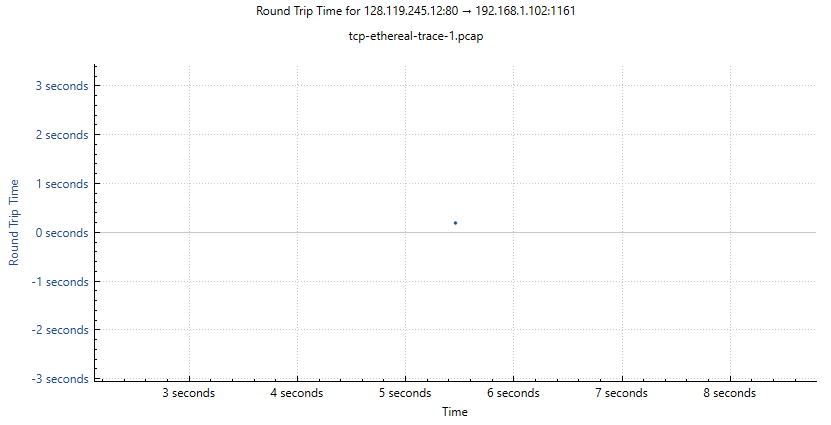
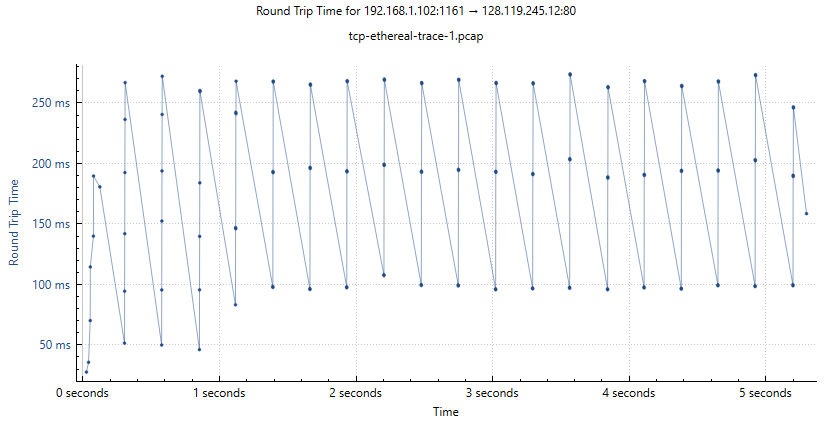
add laporan dan gambar 1

diff --git a/week6/NurAisyah_M6.md b/week6/NurAisyah_M6.md
@@ -51,7 +51,7 @@ Kelas: IF-04-02
 ![Gambar 9](../assets/image/46.png)
 3. Nomor urut (sequence number) dari segmen TCP yang berisi perintah HTTP POST adalah 164041. Hal ini terlihat pada paket dengan informasi “POST /ethereal-labs/lab3-1-reply.htm” di Wireshark. Segmen tersebut dapat diidentifikasi melalui field DATA pada bagian bawah yang menampilkan perintah POST. Segmen ini merupakan bagian awal dari pengiriman data dari klien ke server setelah koneksi TCP terbentuk, sehingga sequence number tersebut digunakan sebagai acuan dalam proses transfer data TCP.
 ![Gambar 10](../assets/image/47.png)
-4. Segmen pertama yang digunakan sebagai acuan adalah segmen yang berisi HTTP POST pada waktu 5.297341 dengan sequence number 164041. Lima segmen berikutnya memiliki sequence number yang tetap yaitu 1 dengan waktu pengiriman berturut-turut pada 5.389471, 5.447887, 5.455830, 5.461175, dan 5.651141. Acknowledgement untuk segmen-segmen tersebut diterima dari server dengan waktu yang berdekatan, sehingga selisih antara waktu pengiriman dan penerimaan ACK relatif kecil. Berdasarkan selisih waktu tersebut, nilai RTT untuk keenam segmen tergolong rendah, menunjukkan komunikasi jaringan yang stabil. Hal ini juga didukung oleh grafik Round Trip Time yang hanya menampilkan satu titik dengan nilai RTT yang kecil, yang menunjukkan bahwa jumlah pengukuran RTT terbatas namun tetap mencerminkan delay yang rendah. Nilai EstimatedRTT juga cenderung konstan karena tidak terdapat variasi RTT yang signifikan selama pengiriman segmen TCP tersebut.
+4. Segmen pertama adalah segmen HTTP POST pada waktu 5.297341 dengan sequence number 164041. Lima segmen berikutnya dikirim pada waktu 5.389471, 5.447887, 5.455830, 5.461175, dan 5.651141. ACK untuk segmen-segmen tersebut diterima dari server pada waktu yang berdekatan, yaitu sekitar 5.389471 hingga 5.651141, dengan nilai acknowledgement yang meningkat sesuai data yang diterima. Berdasarkan selisih waktu antara pengiriman segmen dan penerimaan ACK, nilai RTT berada pada kisaran sekitar 100 ms hingga 270 ms, sebagaimana terlihat pada grafik Round Trip Time. Nilai RTT tersebut menunjukkan adanya fluktuasi namun tetap stabil selama komunikasi berlangsung. Dengan kondisi RTT yang relatif konstan, nilai EstimatedRTT setelah penerimaan setiap ACK juga cenderung stabil dan tidak mengalami perubahan yang signifikan, sehingga mencerminkan performa jaringan yang baik tanpa adanya gangguan atau delay yang ekstrem.
 ![Gambar 11](../assets/image/48.png)
 ![Gambar 15](../assets/image/52.png)
 5. Panjang enam segmen TCP pertama adalah 104 byte, 0 byte, 0 byte, 0 byte, 784 byte, dan 0 byte. Nilai tersebut menunjukkan bahwa hanya beberapa segmen yang membawa data, sedangkan segmen lainnya merupakan acknowledgment yang tidak membawa payload sehingga bernilai 0 byte.
@@ -66,5 +66,5 @@ Kelas: IF-04-02
 1. Gunakan alat plotting Time-Sequence-Graph (Stevens) untuk melihat grafik nomor urut berbanding waktu dari segmen yang dikirim oleh klien ke server gaia.cs.umass.edu. Dapatkah Anda mengidentifikasi di mana fase “slow start” TCP dimulai dan berakhir, dan pada bagian mana algoritma ”congestion avoidance” mengambil alih? Berikan komentar tentang bagaimana data yang diukur berbeda dari perilaku ideal TCP yang telah kita pelajari.
 
 **Jawaban:**
-1. Berdasarkan grafik Time-Sequence Graph (Stevens), tidak terlihat adanya peningkatan sequence number yang signifikan karena grafik cenderung datar. Hal ini menunjukkan bahwa jumlah data yang dikirim dari klien ke server relatif kecil dan didominasi oleh segmen acknowledgment tanpa payload. Akibatnya, fase slow start yang biasanya ditandai dengan peningkatan tajam pada awal pengiriman tidak dapat diidentifikasi dengan jelas, begitu juga dengan fase congestion avoidance yang umumnya ditunjukkan oleh peningkatan yang lebih linear. Perilaku ini berbeda dari kondisi ideal TCP, di mana biasanya terjadi peningkatan eksponensial pada awal (slow start) kemudian berlanjut ke peningkatan linear (congestion avoidance). Perbedaan ini kemungkinan disebabkan oleh keterbatasan data pada trace yang digunakan, sehingga pola pengendalian kemacetan TCP tidak terlihat secara jelas.
+1. Berdasarkan grafik Time-Sequence Graph (Stevens), terlihat bahwa pada awal waktu terjadi peningkatan sequence number yang cukup cepat, yang menunjukkan fase slow start TCP dimulai sejak awal pengiriman data hingga sekitar detik pertama. Setelah itu, peningkatan sequence number menjadi lebih stabil dan cenderung linear, yang menunjukkan bahwa algoritma congestion avoidance mulai mengambil alih. Hal ini terlihat dari pola grafik yang membentuk kenaikan bertahap seperti tangga. Dibandingkan dengan perilaku ideal TCP, yang biasanya menunjukkan peningkatan eksponensial yang sangat jelas pada fase slow start, grafik yang diperoleh menunjukkan peningkatan yang lebih halus dan tidak terlalu tajam. Perbedaan ini kemungkinan disebabkan oleh kondisi jaringan yang stabil serta ukuran data yang tidak terlalu besar, sehingga transisi antara slow start dan congestion avoidance tidak terlihat secara drastis.
 ![Gambar 16](../assets/image/53.png)